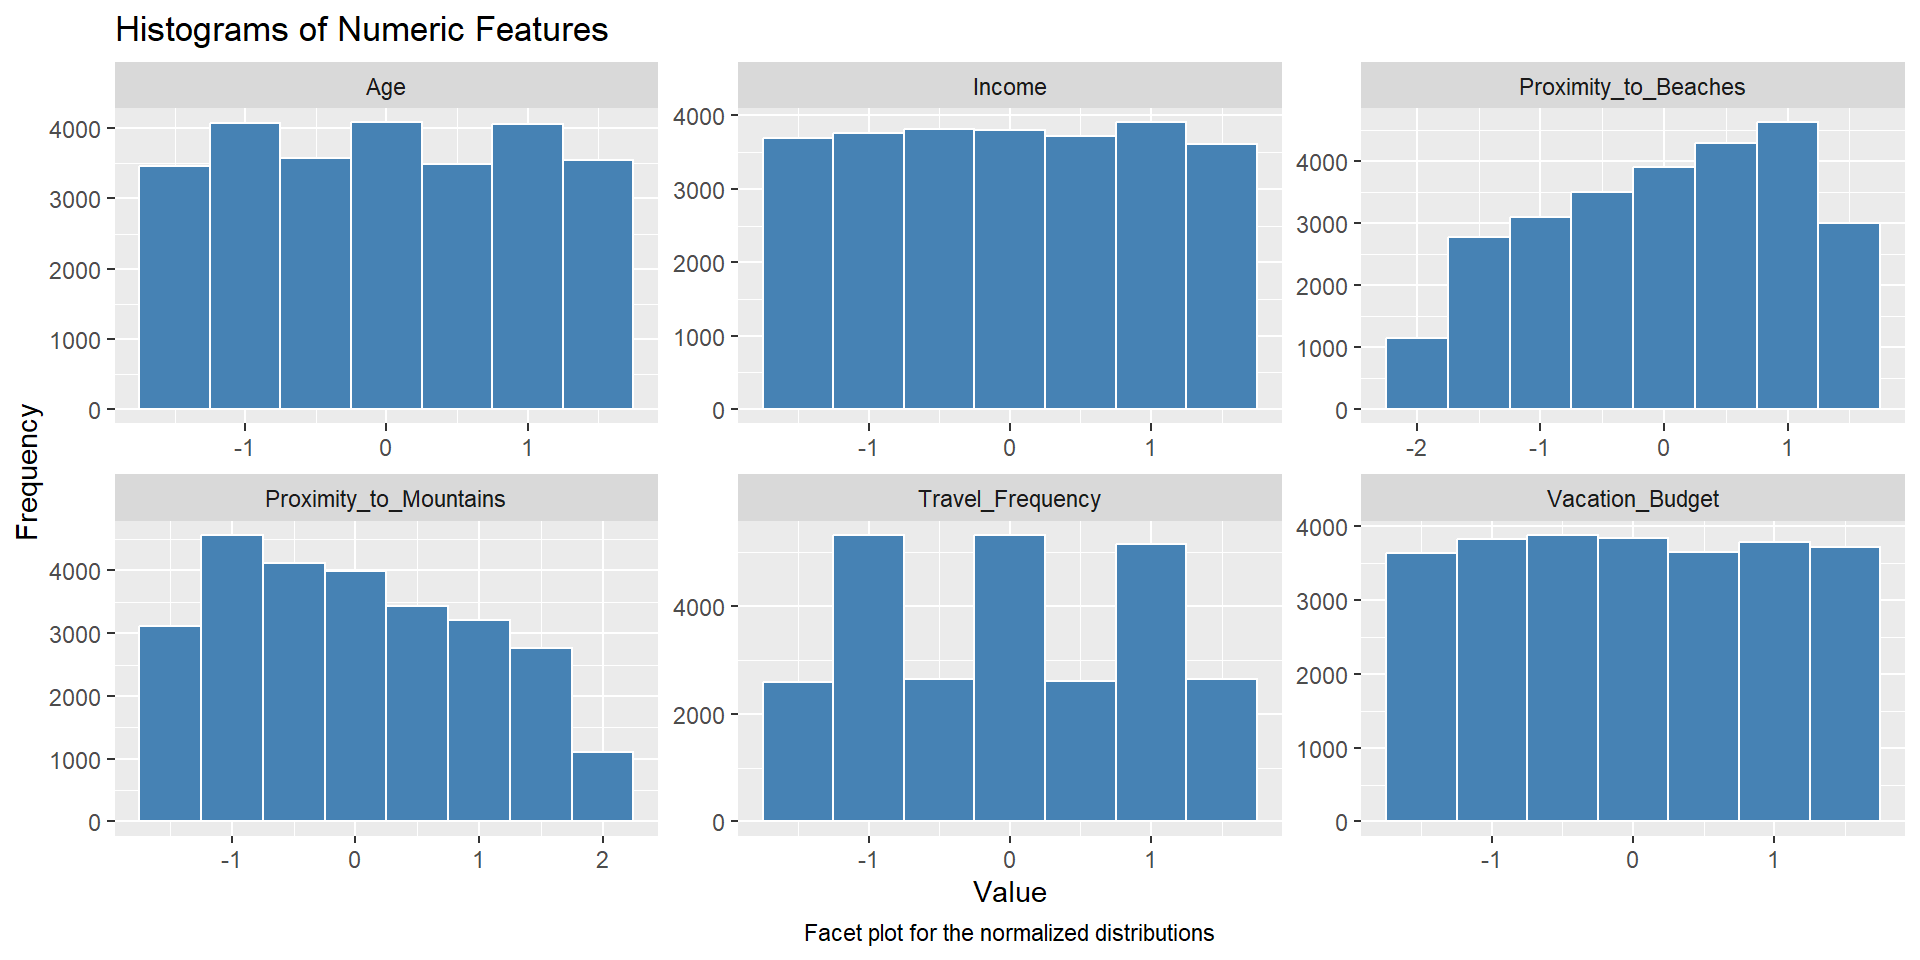
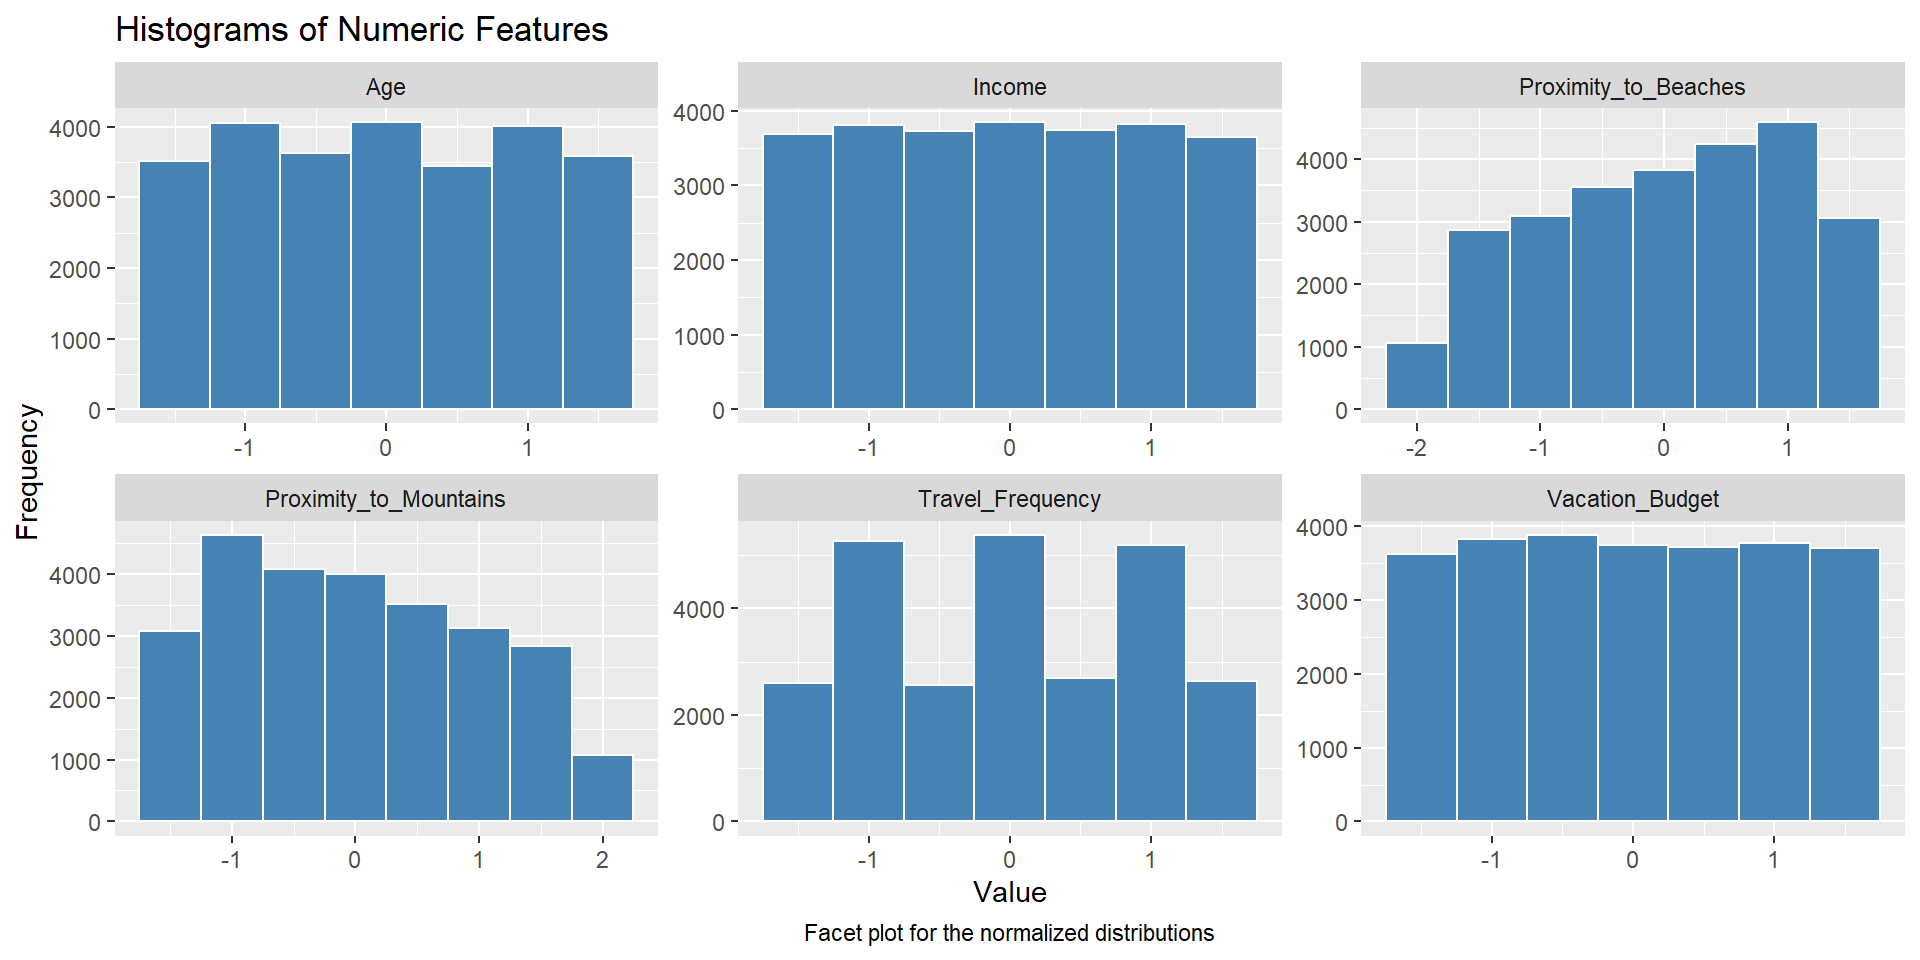
added bibliography

diff --git a/quarto_website/_site/example_analysis.html b/quarto_website/_site/example_analysis.html
@@ -54,7 +54,27 @@ div.sourceCode
 @media screen {
 pre > code.sourceCode > span > a:first-child::before { text-decoration: underline; }
 }
-</style>
+/* CSS for citations */
+div.csl-bib-body { }
+div.csl-entry {
+  clear: both;
+  margin-bottom: 0em;
+}
+.hanging-indent div.csl-entry {
+  margin-left:2em;
+  text-indent:-2em;
+}
+div.csl-left-margin {
+  min-width:2em;
+  float:left;
+}
+div.csl-right-inline {
+  margin-left:2em;
+  padding-left:1em;
+}
+div.csl-indent {
+  margin-left: 2em;
+}</style>
 
 
 <script src="site_libs/quarto-nav/quarto-nav.js"></script>
@@ -242,7 +262,7 @@ window.Quarto = {
 </section>
 <section id="link-to-data" class="level2">
 <h2 class="anchored" data-anchor-id="link-to-data">Link to Data</h2>
-<p>https://www.kaggle.com/datasets/jahnavipaliwal/mountains-vs-beaches-preference</p>
+<p>Citation: <span class="citation" data-cites="paliwal2024">(<a href="#ref-paliwal2024" role="doc-biblioref">Paliwal 2024</a>)</span></p>
 <div class="cell">
 <div class="sourceCode cell-code" id="cb1"><pre class="sourceCode python code-with-copy"><code class="sourceCode python"><span id="cb1-1"><a href="#cb1-1" aria-hidden="true" tabindex="-1"></a><span class="co"># import kagglehub</span></span>
 <span id="cb1-2"><a href="#cb1-2" aria-hidden="true" tabindex="-1"></a></span>
@@ -404,7 +424,7 @@ Attaching package: 'dplyr'</code></pre>
 <li>Observations Need to be Properly Distributed Across the Levels of the Dependent Variable: There should be a reasonable number of cases in both categories of the dependent variable. Extreme imbalances can lead to a biased model.</li>
 </ul>
 <p>We will need to check this assumption.</p>
-<p>https://www.statisticssolutions.com/free-resources/directory-of-statistical-analyses/assumptions-of-logistic-regression/</p>
+<p><span class="citation" data-cites="statsolutions2024">(<a href="#ref-statsolutions2024" role="doc-biblioref">Solutions 2024</a>)</span></p>
 <div class="cell">
 <div class="sourceCode cell-code" id="cb9"><pre class="sourceCode r code-with-copy"><code class="sourceCode r"><span id="cb9-1"><a href="#cb9-1" aria-hidden="true" tabindex="-1"></a>features <span class="ot">=</span> dplyr<span class="sc">::</span><span class="fu">select</span>(data, <span class="sc">-</span>Preference)</span>
 <span id="cb9-2"><a href="#cb9-2" aria-hidden="true" tabindex="-1"></a><span class="fu">head</span>(features)</span></code><button title="Copy to Clipboard" class="code-copy-button"><i class="bi"></i></button></pre></div>
@@ -668,7 +688,7 @@ Number of beach enjoyers: 13148 </code></pre>
 </section>
 <section id="feature-engineering" class="level3">
 <h3 class="anchored" data-anchor-id="feature-engineering">Feature Engineering</h3>
-<p>Normalizing the data is generally a good thing to do. Not super necessary here, but I will do it anyways. https://www.turing.com/kb/effects-of-normalization-techniques-on-logistic-regression-in-data-science</p>
+<p>Normalizing the data is generally a good thing to do. Not super necessary here, but I will do it anyways. <span class="citation" data-cites="turing2024">(<a href="#ref-turing2024" role="doc-biblioref">Turing 2024</a>)</span> for reference</p>
 <div class="cell">
 <div class="sourceCode cell-code" id="cb31"><pre class="sourceCode r code-with-copy"><code class="sourceCode r"><span id="cb31-1"><a href="#cb31-1" aria-hidden="true" tabindex="-1"></a>normalized_data <span class="ot">&lt;-</span> balanced_data <span class="sc">%&gt;%</span></span>
 <span id="cb31-2"><a href="#cb31-2" aria-hidden="true" tabindex="-1"></a>  <span class="fu">select</span>(<span class="fu">where</span>(is.numeric)) <span class="sc">%&gt;%</span></span>
@@ -692,19 +712,19 @@ Number of beach enjoyers: 13148 </code></pre>
 5       male     high school               hiking suburban            fall    0
 6     female          master               skiing    urban            fall    1
   Environmental_Concerns Preference        Age      Income Travel_Frequency
-1                      1          1  0.8320239  0.05233121        1.5711838
-2                      0          1  0.1648052 -0.81250781       -1.5655376
-3                      0          1 -0.7693008  1.00922535        0.5256100
-4                      1          1 -0.1688041 -0.59618524        0.8741346
-5                      0          1  0.8987457 -0.14465701       -0.5199638
-6                      1          1 -0.1688041  1.03581442       -0.8684884
+1                      1          1  0.8337590  0.05794448        1.5675643
+2                      0          1  0.1671574 -0.80440600       -1.5725797
+3                      0          1 -0.7660848  1.01208517        0.5208496
+4                      1          1 -0.1661434 -0.58870589        0.8697545
+5                      0          1  0.9004191 -0.13847691       -0.5258651
+6                      1          1 -0.1661434  1.03859774       -0.8747699
   Vacation_Budget Proximity_to_Mountains Proximity_to_Beaches
-1     -0.20029233             0.49358718            1.1864101
-2     -0.97974101            -0.73216912            1.3402106
-3     -0.96968860            -1.20361385            1.0444405
-4     -0.88540297            -0.03678814            1.0326097
-5     -0.09976819            -1.14468326            1.0799329
-6      0.07266936            -0.66145241            0.5002235</code></pre>
+1     -0.20140361             0.49018449            1.1826085
+2     -0.97822468            -0.73056809            1.3355879
+3     -0.96820616            -1.20008831            1.0413968
+4     -0.88420467            -0.03802576            1.0296291
+5     -0.10121836            -1.14139828            1.0766997
+6      0.07063789            -0.66014006            0.5000851</code></pre>
 </div>
 </div>
 <p>Now, need to convert this subset of the data into factors where appropriate</p>
@@ -728,12 +748,12 @@ Number of beach enjoyers: 13148 </code></pre>
  $ Pets                  : int  0 0 1 1 0 1 0 1 0 1 ...
  $ Environmental_Concerns: int  1 0 0 1 0 1 1 0 0 0 ...
  $ Preference            : int  1 1 1 1 1 1 1 1 1 1 ...
- $ Age                   : num  0.832 0.165 -0.769 -0.169 0.899 ...
- $ Income                : num  0.0523 -0.8125 1.0092 -0.5962 -0.1447 ...
- $ Travel_Frequency      : num  1.571 -1.566 0.526 0.874 -0.52 ...
- $ Vacation_Budget       : num  -0.2003 -0.9797 -0.9697 -0.8854 -0.0998 ...
- $ Proximity_to_Mountains: num  0.4936 -0.7322 -1.2036 -0.0368 -1.1447 ...
- $ Proximity_to_Beaches  : num  1.19 1.34 1.04 1.03 1.08 ...</code></pre>
+ $ Age                   : num  0.834 0.167 -0.766 -0.166 0.9 ...
+ $ Income                : num  0.0579 -0.8044 1.0121 -0.5887 -0.1385 ...
+ $ Travel_Frequency      : num  1.568 -1.573 0.521 0.87 -0.526 ...
+ $ Vacation_Budget       : num  -0.201 -0.978 -0.968 -0.884 -0.101 ...
+ $ Proximity_to_Mountains: num  0.49 -0.731 -1.2 -0.038 -1.141 ...
+ $ Proximity_to_Beaches  : num  1.18 1.34 1.04 1.03 1.08 ...</code></pre>
 </div>
 </div>
 <div class="cell">
@@ -775,33 +795,33 @@ glm(formula = Preference ~ ., family = "binomial", data = normalized_data)
 
 Coefficients:
                                  Estimate Std. Error z value Pr(&gt;|z|)
-(Intercept)                     7.980e+02  1.684e+03   0.474    0.636
-Gendermale                      8.936e-02  7.218e+01   0.001    0.999
-Gendernon-binary                3.970e-01  6.739e+01   0.006    0.995
-Education_Level.L              -3.071e-01  6.354e+01  -0.005    0.996
-Education_Level.Q               7.364e-02  5.803e+01   0.001    0.999
-Education_Level.C              -8.440e-02  5.498e+01  -0.002    0.999
-Preferred_Activitiesskiing     -3.996e-01  5.970e+01  -0.007    0.995
-Preferred_Activitiessunbathing -7.038e+03  1.491e+04  -0.472    0.637
-Preferred_Activitiesswimming   -7.111e+03  1.506e+04  -0.472    0.637
-Locationsuburban               -1.909e-01  6.715e+01  -0.003    0.998
-Locationurban                  -2.248e-01  6.897e+01  -0.003    0.997
-Favorite_Seasonspring          -3.175e-01  7.446e+01  -0.004    0.997
-Favorite_Seasonsummer           3.329e-01  9.048e+01   0.004    0.997
-Favorite_Seasonwinter          -5.673e-02  7.383e+01  -0.001    0.999
-Pets                            4.011e-01  5.770e+01   0.007    0.994
-Environmental_Concerns         -3.239e-01  5.494e+01  -0.006    0.995
-Age                            -1.037e-01  2.929e+01  -0.004    0.997
-Income                          8.309e-02  2.927e+01   0.003    0.998
-Travel_Frequency                9.272e-02  2.752e+01   0.003    0.997
-Vacation_Budget                -1.164e-01  2.729e+01  -0.004    0.997
-Proximity_to_Mountains         -2.044e+03  4.313e+03  -0.474    0.636
-Proximity_to_Beaches            2.036e+03  4.298e+03   0.474    0.636
+(Intercept)                     7.860e+02  1.665e+03   0.472    0.637
+Gendermale                     -8.870e-01  8.104e+01  -0.011    0.991
+Gendernon-binary               -7.215e-01  7.571e+01  -0.010    0.992
+Education_Level.L               2.057e-01  6.378e+01   0.003    0.997
+Education_Level.Q              -8.041e-02  5.963e+01  -0.001    0.999
+Education_Level.C               2.514e-01  5.316e+01   0.005    0.996
+Preferred_Activitiesskiing     -3.228e-01  5.585e+01  -0.006    0.995
+Preferred_Activitiessunbathing -7.068e+03  1.499e+04  -0.471    0.637
+Preferred_Activitiesswimming   -7.115e+03  1.510e+04  -0.471    0.638
+Locationsuburban               -6.626e-01  7.105e+01  -0.009    0.993
+Locationurban                  -9.941e-01  7.355e+01  -0.014    0.989
+Favorite_Seasonspring          -1.853e-01  7.011e+01  -0.003    0.998
+Favorite_Seasonsummer           5.153e-01  7.867e+01   0.007    0.995
+Favorite_Seasonwinter           4.522e-01  8.105e+01   0.006    0.996
+Pets                            6.776e-01  5.801e+01   0.012    0.991
+Environmental_Concerns         -1.722e-01  5.701e+01  -0.003    0.998
+Age                            -2.291e-01  3.273e+01  -0.007    0.994
+Income                          1.488e-01  2.871e+01   0.005    0.996
+Travel_Frequency                1.000e-01  2.704e+01   0.004    0.997
+Vacation_Budget                -1.477e-01  2.817e+01  -0.005    0.996
+Proximity_to_Mountains         -2.039e+03  4.309e+03  -0.473    0.636
+Proximity_to_Beaches            2.034e+03  4.299e+03   0.473    0.636
 
 (Dispersion parameter for binomial family taken to be 1)
 
     Null deviance: 3.6454e+04  on 26295  degrees of freedom
-Residual deviance: 1.1439e-03  on 26274  degrees of freedom
+Residual deviance: 1.1668e-03  on 26274  degrees of freedom
 AIC: 44.001
 
 Number of Fisher Scoring iterations: 25</code></pre>
@@ -898,10 +918,21 @@ Attaching package: 'pROC'</code></pre>
 </ul>
 
 
+
 </section>
 </section>
 
-</main> <!-- /main -->
+<div id="quarto-appendix" class="default"><section class="quarto-appendix-contents" role="doc-bibliography" id="quarto-bibliography"><h2 class="anchored quarto-appendix-heading">References</h2><div id="refs" class="references csl-bib-body hanging-indent" data-entry-spacing="0" role="list">
+<div id="ref-paliwal2024" class="csl-entry" role="listitem">
+Paliwal, Jahnavi. 2024. <span>“Mountains Vs. Beaches Preference.”</span> <a href="https://www.kaggle.com/datasets/jahnavipaliwal/mountains-vs-beaches-preference">https://www.kaggle.com/datasets/jahnavipaliwal/mountains-vs-beaches-preference</a>.
+</div>
+<div id="ref-statsolutions2024" class="csl-entry" role="listitem">
+Solutions, Statistics. 2024. <span>“Assumptions of Logistic Regression.”</span> <a href="https://www.statisticssolutions.com/free-resources/directory-of-statistical-analyses/assumptions-of-logistic-regression/">https://www.statisticssolutions.com/free-resources/directory-of-statistical-analyses/assumptions-of-logistic-regression/</a>.
+</div>
+<div id="ref-turing2024" class="csl-entry" role="listitem">
+Turing. 2024. <span>“Effects of Normalization Techniques on Logistic Regression in Data Science.”</span> <a href="https://www.turing.com/kb/effects-of-normalization-techniques-on-logistic-regression-in-data-science">https://www.turing.com/kb/effects-of-normalization-techniques-on-logistic-regression-in-data-science</a>.
+</div>
+</div></section></div></main> <!-- /main -->
 <script id="quarto-html-after-body" type="application/javascript">
 window.document.addEventListener("DOMContentLoaded", function (event) {
   const toggleBodyColorMode = (bsSheetEl) => {
@@ -994,7 +1025,7 @@ window.document.addEventListener("DOMContentLoaded", function (event) {
   }
     var localhostRegex = new RegExp(/^(?:http|https):\/\/localhost\:?[0-9]*\//);
     var mailtoRegex = new RegExp(/^mailto:/);
-      var filterRegex = new RegExp("https:\/\/jye2003\.quarto\.pub\/jonathan_ye_biostat777_project1");
+      var filterRegex = new RegExp('/' + window.location.host + '/');
     var isInternal = (href) => {
         return filterRegex.test(href) || localhostRegex.test(href) || mailtoRegex.test(href);
     }

diff --git a/quarto_website/_site/about.html b/quarto_website/_site/about.html
@@ -234,7 +234,7 @@ window.document.addEventListener("DOMContentLoaded", function (event) {
   }
     var localhostRegex = new RegExp(/^(?:http|https):\/\/localhost\:?[0-9]*\//);
     var mailtoRegex = new RegExp(/^mailto:/);
-      var filterRegex = new RegExp("https:\/\/jye2003\.quarto\.pub\/jonathan_ye_biostat777_project1");
+      var filterRegex = new RegExp('/' + window.location.host + '/');
     var isInternal = (href) => {
         return filterRegex.test(href) || localhostRegex.test(href) || mailtoRegex.test(href);
     }
